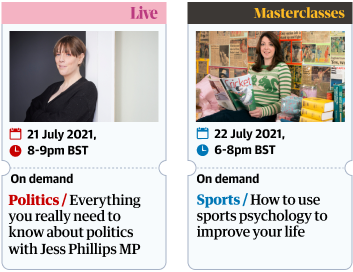
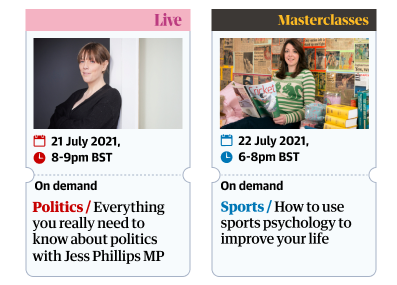
tweaks for tablet breakpoint

diff --git a/support-frontend/assets/pages/digital-subscription-landing/components/comparison/interactiveTableContents.jsx b/support-frontend/assets/pages/digital-subscription-landing/components/comparison/interactiveTableContents.jsx
@@ -2,7 +2,7 @@
 import React, { type Node } from 'react';
 import { css } from '@emotion/core';
 import { space } from '@guardian/src-foundations';
-import { from, until } from '@guardian/src-foundations/mq';
+import { from, until, breakpoints } from '@guardian/src-foundations/mq';
 import { background, brandAltBackground, brand } from '@guardian/src-foundations/palette';
 import { SvgCheckmark } from '@guardian/src-icons';
 import { headline } from '@guardian/src-foundations/typography';
@@ -95,7 +95,7 @@ const detailsCellImageFirst = css`
     margin-top: ${space[3]}px;
   }
 
-  ${from.desktop} {
+  ${from.tablet} {
     flex-direction: row;
     justify-content: space-between;
 
@@ -115,7 +115,7 @@ const detailsCellImageFirstContainer = css`
     width: 100%;
   }
 
-  ${from.desktop} {
+  ${from.tablet} {
     margin: 0 0 -${space[4]}px;
   }
 `;
@@ -129,7 +129,7 @@ const detailsCellImageSecond = css`
   }
 
 
-  ${from.desktop} {
+  ${from.tablet} {
     flex-direction: row-reverse;
     justify-content: space-between;
 
@@ -153,7 +153,7 @@ const detailsCellOfflineReading = css`
   display: flex;
   flex-direction: column;
 
-  ${from.desktop} {
+  ${from.tablet} {
     flex-direction: row-reverse;
   }
 `;
@@ -161,7 +161,7 @@ const detailsCellOfflineReading = css`
 const appFeatureImageContainer = css`
   display: flex;
 
-  ${until.desktop} {
+  ${until.tablet} {
     :not(:last-of-type) {
       margin-bottom: ${space[3]}px;
     }
@@ -170,10 +170,12 @@ const appFeatureImageContainer = css`
 
 const detailsColumnCrosswords = css`
   display: flex;
+  flex-direction: row;
   justify-content: space-between;
 
-  ${from.desktop} {
+  ${from.tablet} {
     flex-direction: row-reverse;
+    justify-content: space-around;
   }
 
   & > * {
@@ -427,9 +429,9 @@ export const rows = [
           </AppFeatureWithIcon>
         </div>
         <div css={detailsCellImageCrosswords}>
-          <picture className="component-grid-picture">
-            <source media="(max-width: 799px)" srcSet={crosswordsPic} />
-            <source media="(min-width: 800px)" srcSet={crosswordsDesktopPic} />
+          <picture>
+            <source media={`(max-width: ${breakpoints.tablet - 1}px)`} srcSet={crosswordsPic} />
+            <source media={`(min-width: ${breakpoints.tablet}px)`} srcSet={crosswordsDesktopPic} />
             <img
               src={crosswordsPic}
               alt=""
